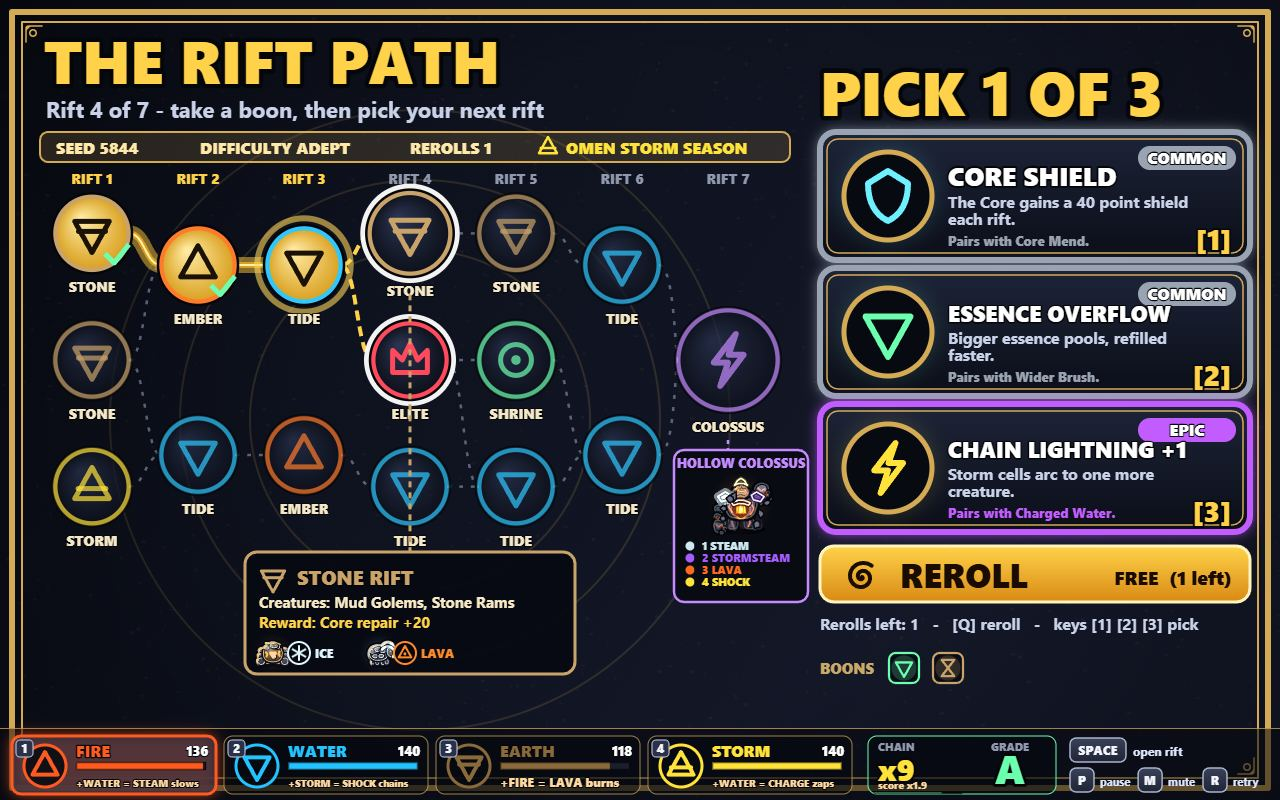
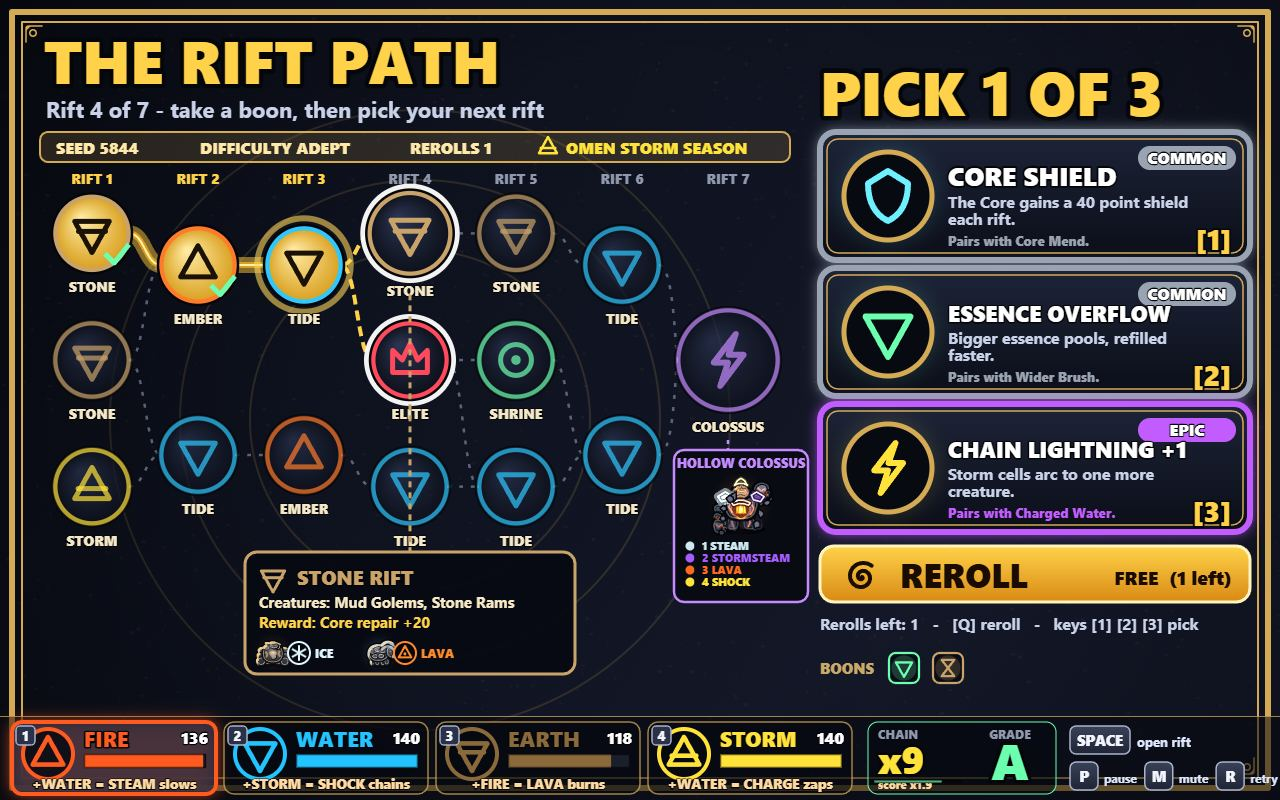
Bright theme by default; shots.json uses the bright cover_f cover and the dark title, path and results

diff --git a/game/src/shots.js b/game/src/shots.js
@@ -303,8 +303,8 @@ function stageCoverA(seed, rich = false) {
   blob(game, ICE, 45.5, 26.5, 3.6, 2.2);
   blob(game, WATER, 36.5, 20.6, 9.5, 2.3);
   for (let col = 0; col < COLS; col += 1) for (let row = 16; row < 26; row += 1) if (game.grid.type[row * COLS + col] === WATER) setCell(game.grid, col, row, CHARGED, 1.8);
-  blob(game, CLOUD, 36.5, 16.9, 5.2, 1.1);
-  stageBoss(game, 39, 11.7, 2);
+  blob(game, CLOUD, 36.5, rich ? 16.3 : 16.9, rich ? 6.2 : 5.2, rich ? 1.3 : 1.1);
+  stageBoss(game, 39, rich ? 10.6 : 11.7, 2);
   place(game, 'golem', 'E', 45, 26.2).frozen = 99;
   place(game, 'imp', 'W', 5.4, 12);
   place(game, 'wraith', 'N', 21, 7);
@@ -312,7 +312,7 @@ function stageCoverA(seed, rich = false) {
   const chain = [['imp', 44, 20.2], ['wraith', 40.5, 21.2], ['beetle', 37, 20.2], ['golem', 33.5, 21.2], ['swarm', 30, 20.2]].map(([kind, x, y]) => place(game, kind, 'E', x, y));
   if (rich) {
     // A second stream from the west rift toward the Core, steam where the chain starts, lava embers, a gold shockwave.
-    for (const [kind, x, y] of [['swarm', 13.4, 15.7], ['golem', 16.8, 15.3], ['swarm', 20.2, 15.8]]) place(game, kind, 'W', x, y);
+    for (const [kind, x, y] of [['swarm', 13.4, 15.7], ['ram', 16.8, 15.3], ['swarm', 20.2, 15.8]]) place(game, kind, 'W', x, y);
     blob(game, STEAM, 27.8, 19.4, 2.6, 1.4);
   }
   stageChain(game, [34, 21]);

diff --git a/game/src/main.js b/game/src/main.js
@@ -25,7 +25,8 @@ const MAX_FRAME = 0.25;
 
 const params = new URLSearchParams(window.location.search);
 const shot = params.get('shot');
-THEME.bright = params.get('theme') === 'bright' || Boolean(shot && /_(d|f)$/.test(shot));
+// The bright theme is the default; ?theme=dark keeps the dark-obsidian look.
+THEME.bright = params.get('theme') !== 'dark';
 const seedParam = Number.parseInt(params.get('seed') ?? '', 10);
 const baseSeed = Number.isInteger(seedParam) ? seedParam : Math.floor(Math.random() * 4294967296);
 
